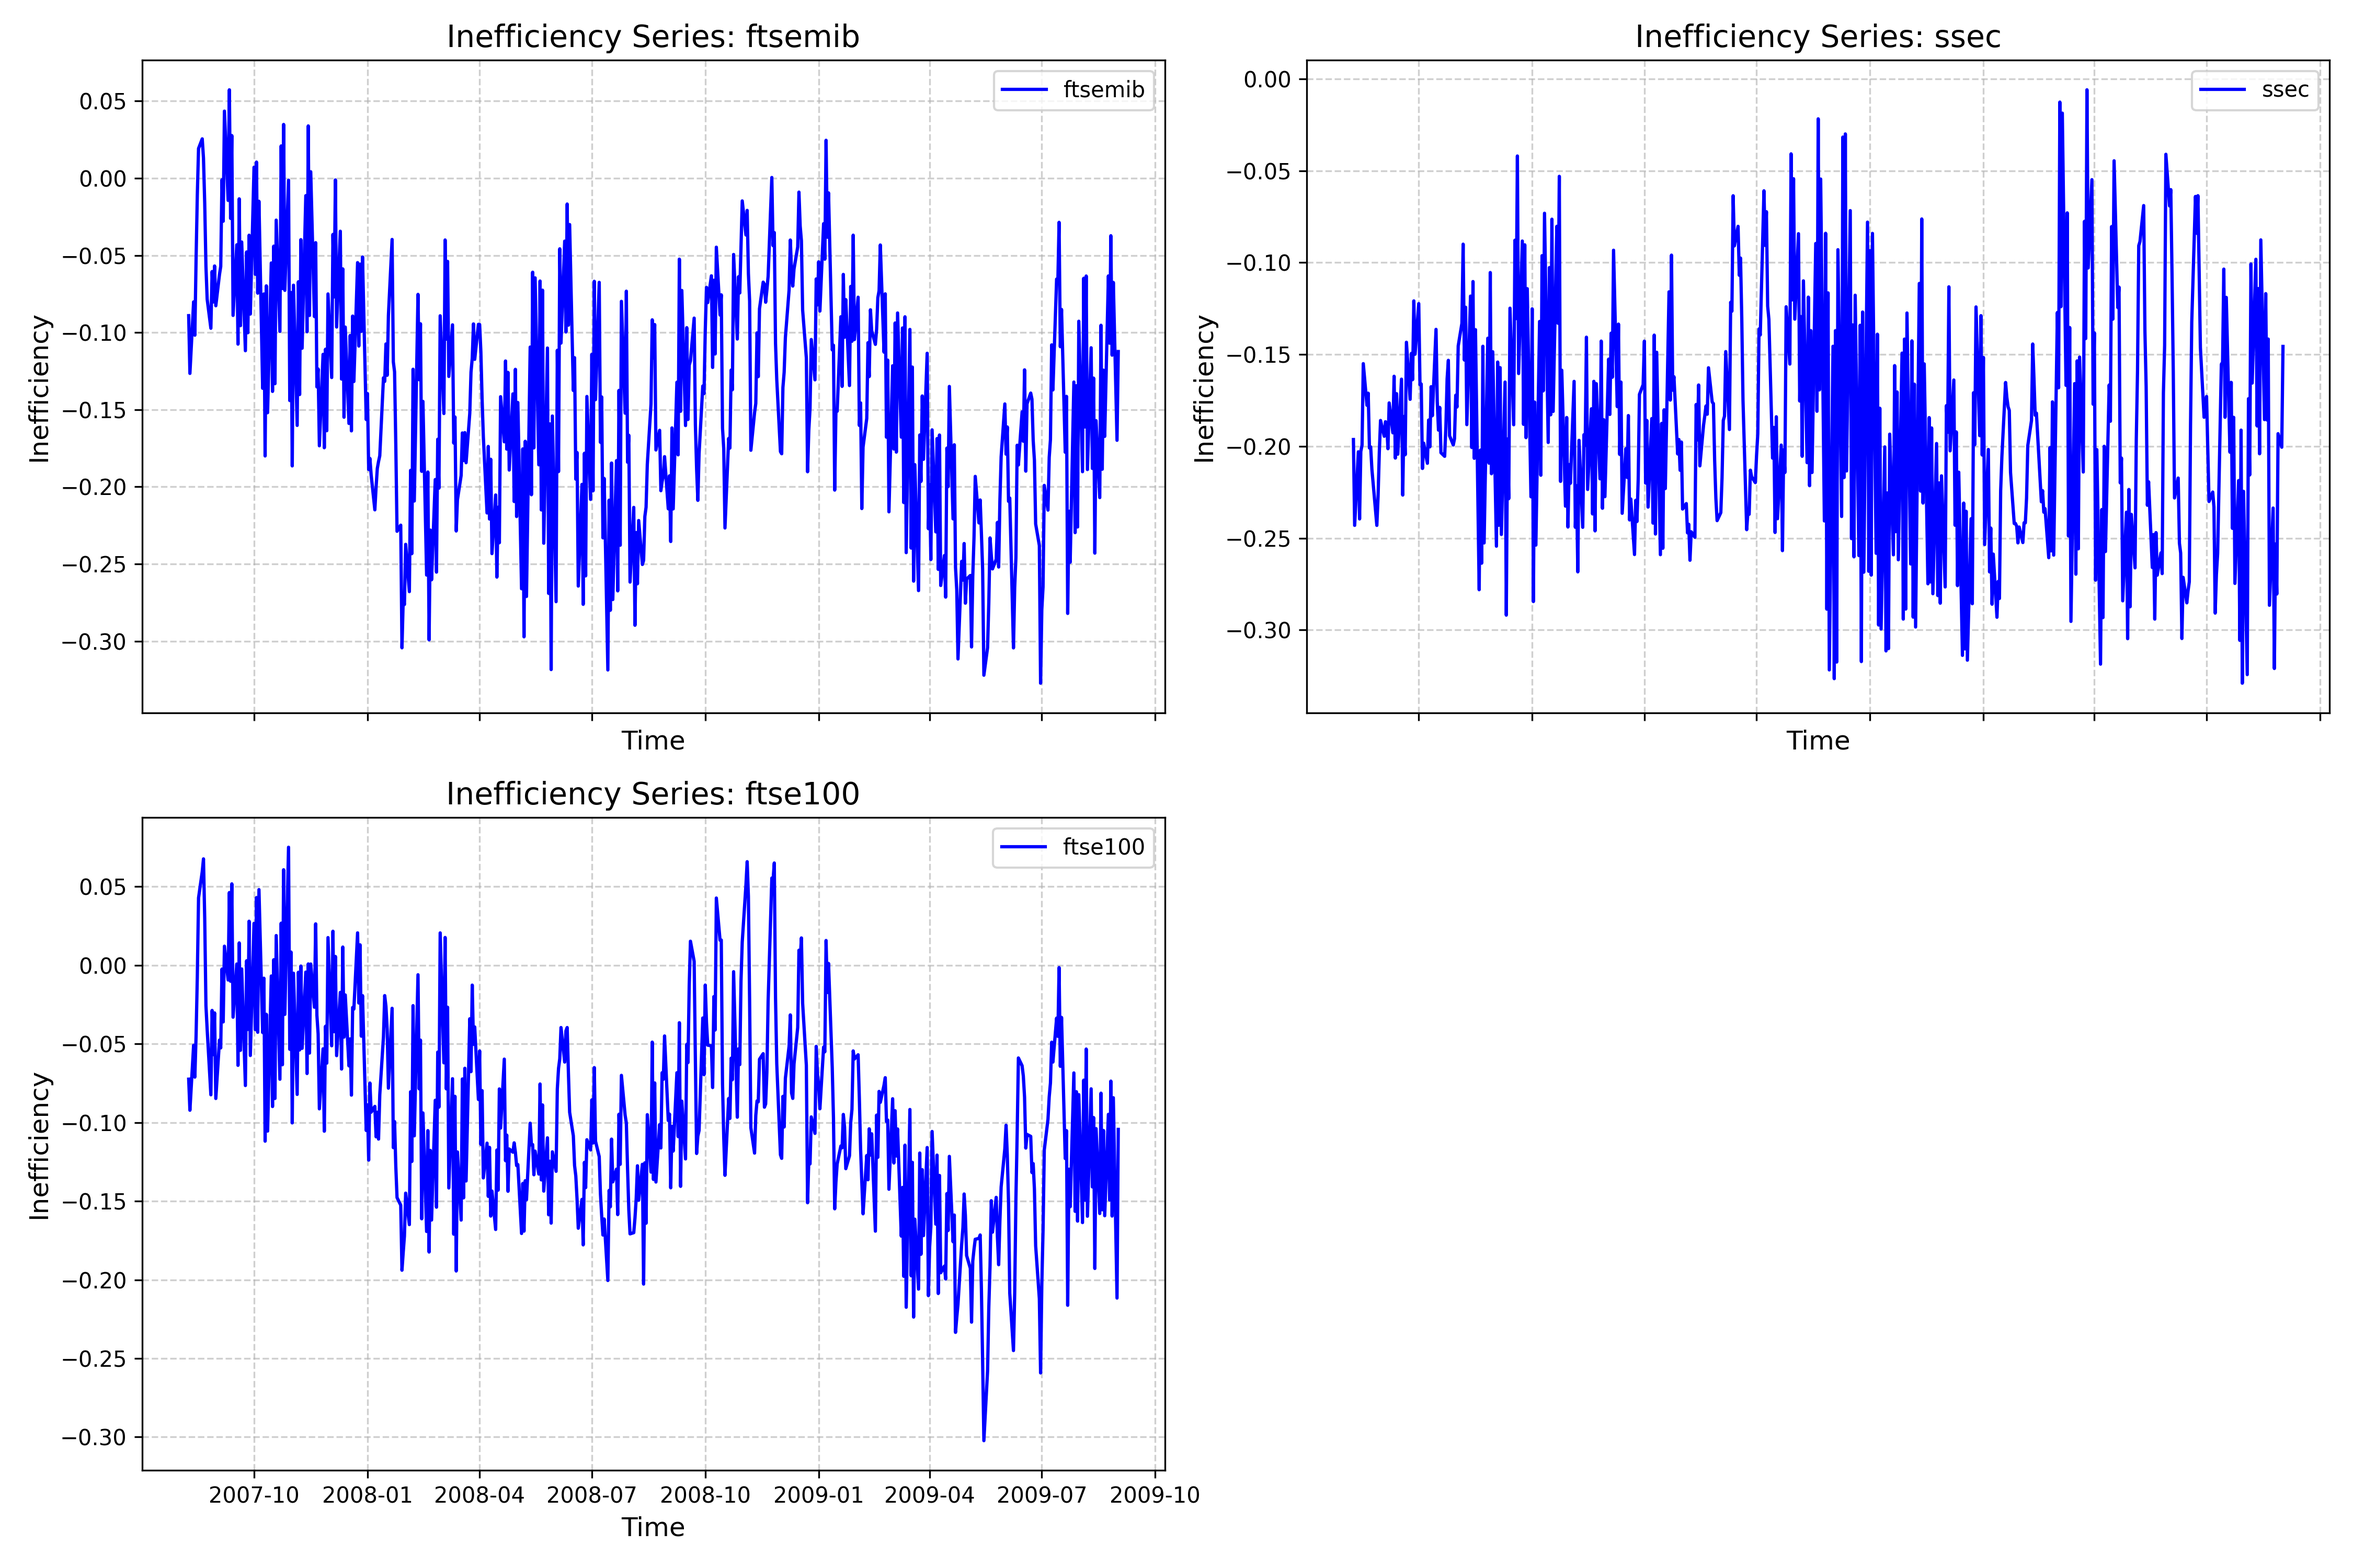
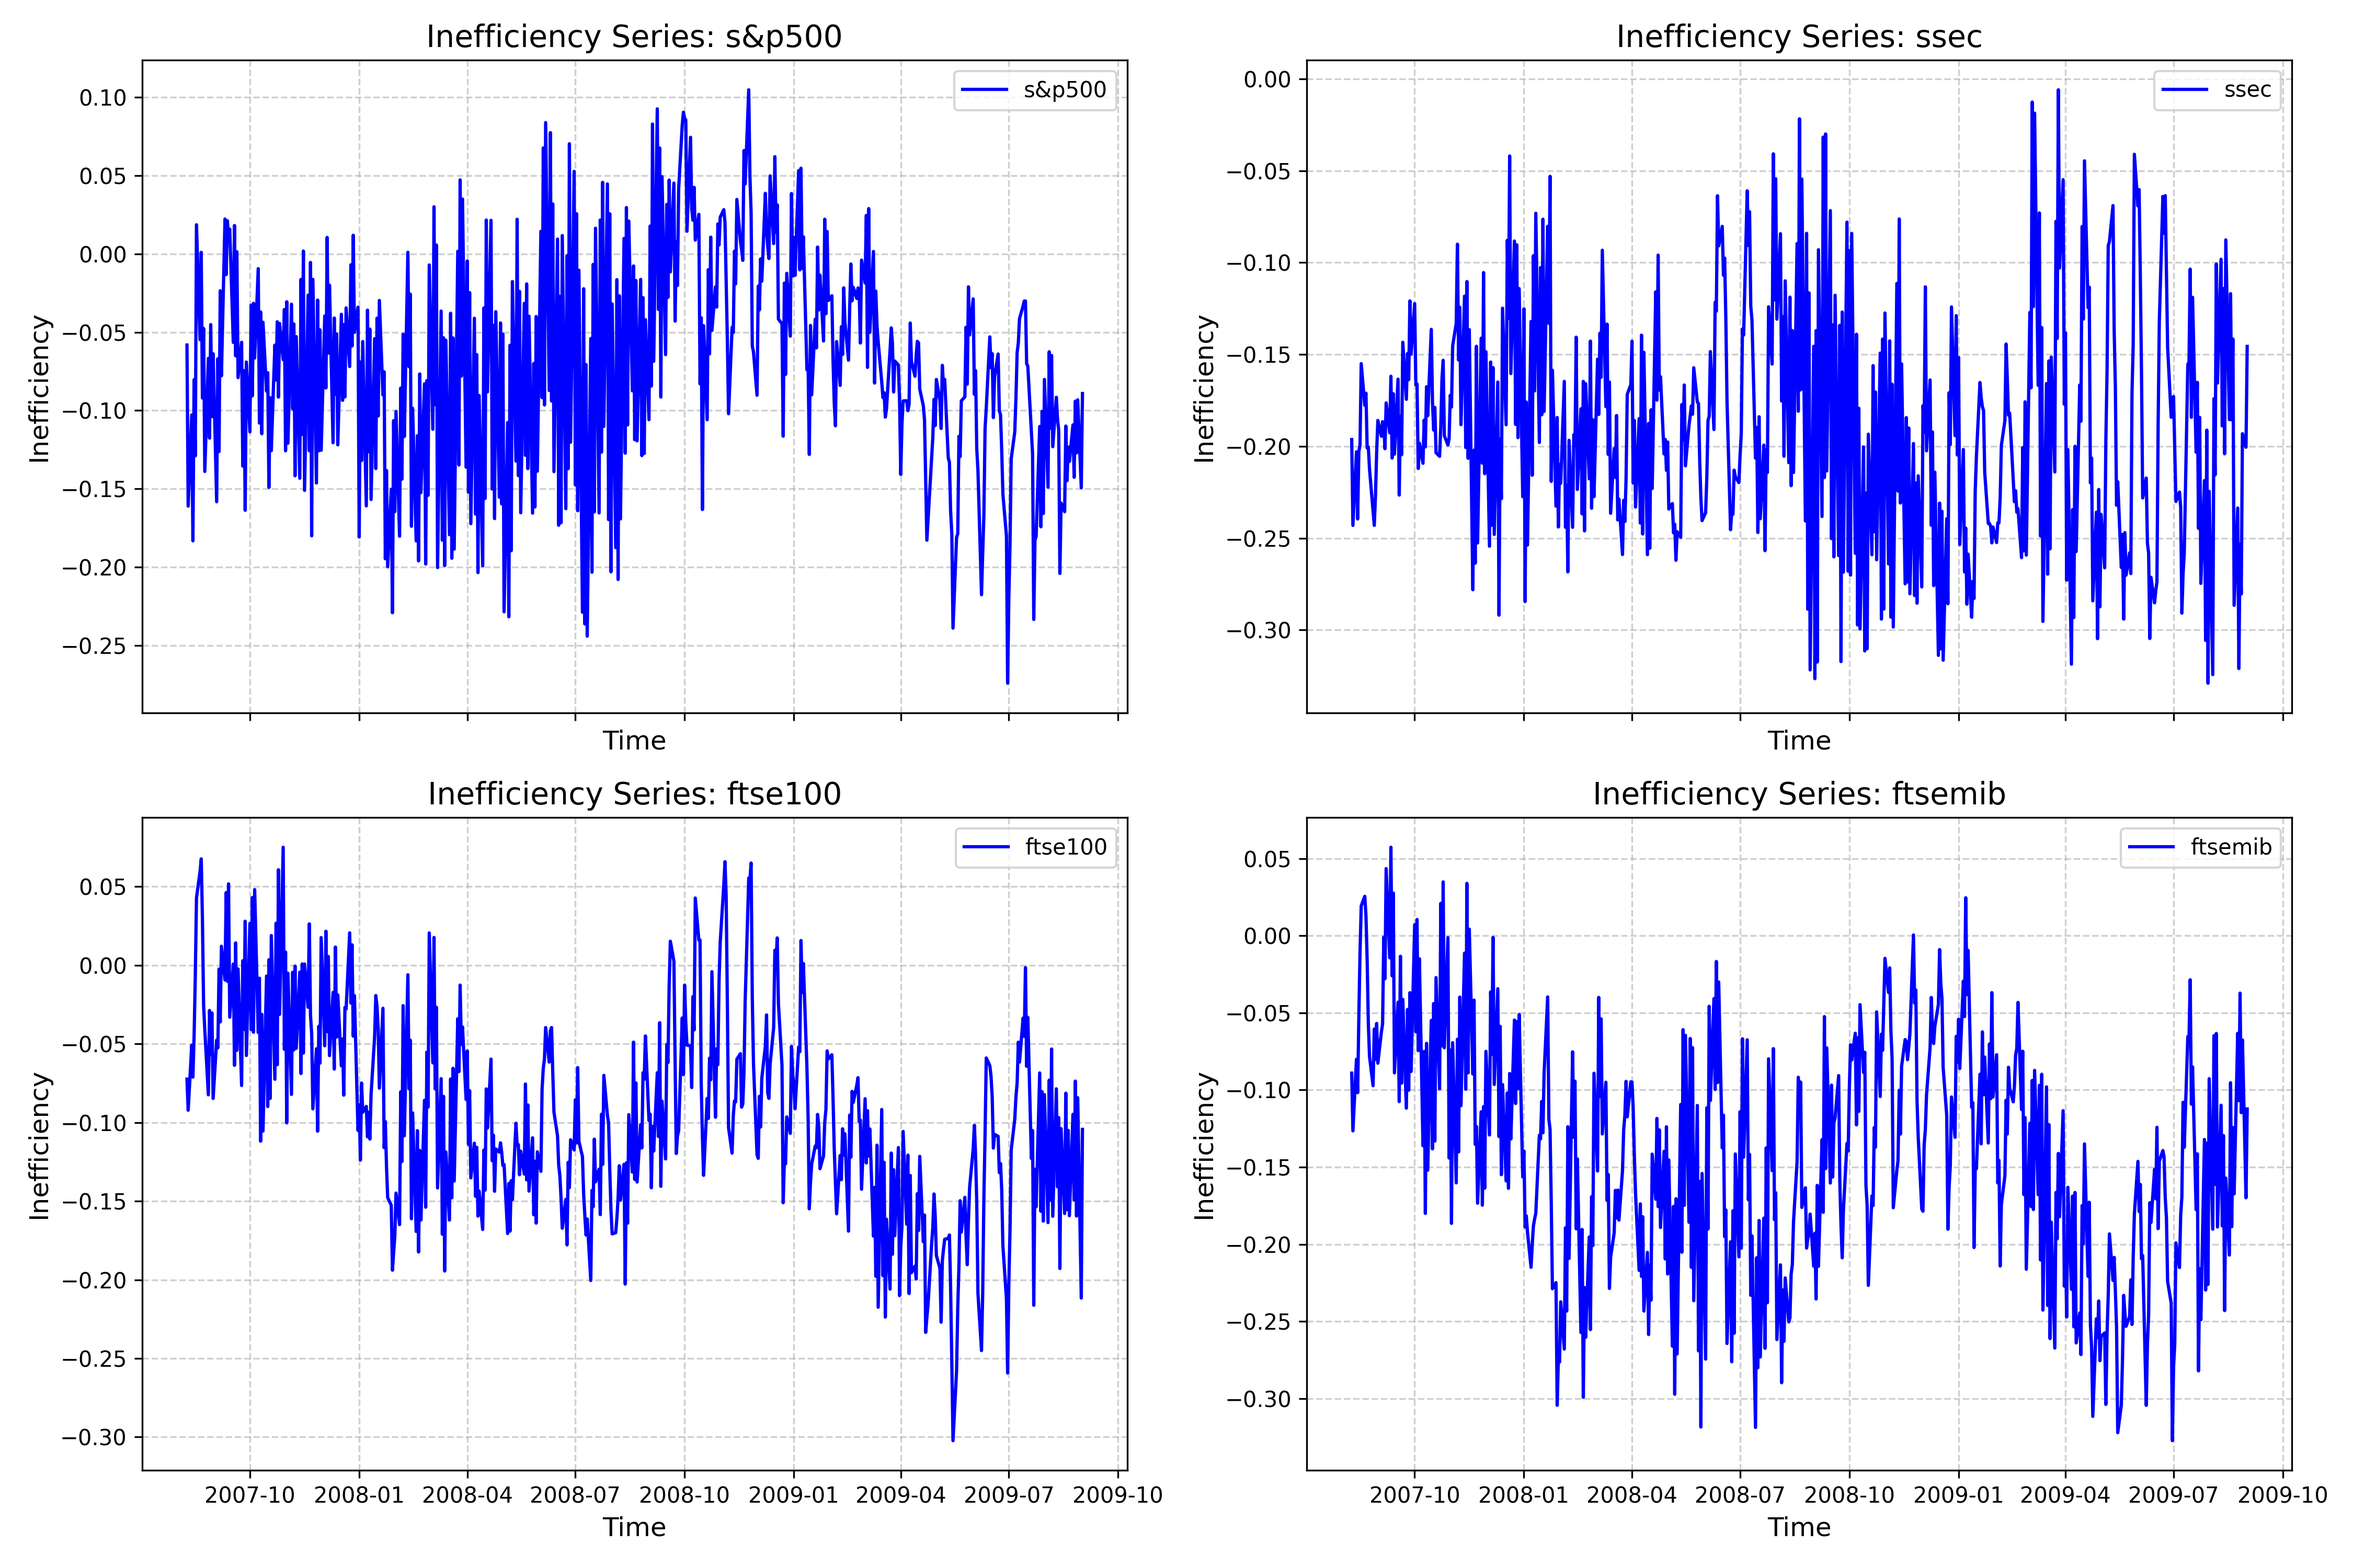
adapt results

diff --git a/src/results.py b/src/results.py
@@ -11,7 +11,7 @@ class Results:
     Save the figures and the tables in the output directory.
     """
 
-    def __init__(self, inefficiency_df: pd.DataFrame, dcc: np.ndarray, granger_tests: pd.DataFrame, plot: bool = True):
+    def __init__(self, inefficiency_df: pd.DataFrame, dcc: np.ndarray, var_results : dict[pd.DataFrame], granger_tests: dict[pd.DataFrame], plot: bool = True):
         """
         Parameters:
             inefficiency_series (pd.DataFrame): DataFrame containing the inefficiency series
@@ -20,6 +20,7 @@ class Results:
         """
         self.inefficiency_df = inefficiency_df
         self.dcc = dcc
+        self.var_results = var_results
         self.granger_tests = granger_tests
         
         self.plot = plot
@@ -87,9 +88,10 @@ class Results:
             num_rows = (num_series + 1) // 2  # Calculate the number of rows needed for two columns
             fig, axes = plt.subplots(num_rows, 2, figsize=(15, 5 * num_rows), sharex=True)
             axes = axes.flatten()  # Flatten the axes array for easier indexing
+            diff_dates = len(self.inefficiency_df.index) - len(self.dcc.index)
 
             for i, column in enumerate(self.dcc.columns):
-                axes[i].plot(self.dcc.index, self.dcc[column], label=column, color='blue')
+                axes[i].plot(self.inefficiency_df.index[diff_dates:], self.dcc[column], label=column, color='blue')
                 axes[i].set_title(f'DCC Correlation Series: {column}', fontsize=14)
                 axes[i].set_xlabel('Time', fontsize=12)
                 axes[i].set_ylabel('Correlation', fontsize=12)
@@ -106,8 +108,21 @@ class Results:
                 plt.show()
             plt.close()
 
+
+        if self.var_results == {}:
+            print("VAR results are empty. Skipping Granger causality plot.")
+        else:
+            # Saving the Granger causality test results
+            print("VAR results saving:")
+            with pd.ExcelWriter('output/var_results.xlsx', engine='xlsxwriter') as writer:
+                for sheet_name, df in self.var_results.items():
+                    df.to_excel(writer, sheet_name=sheet_name, index=False)
+
         if self.granger_tests == {}:
             print("Granger causality test results are empty. Skipping Granger causality plot.")
         else:
             # Saving the Granger causality test results
-            self.granger_tests.to_csv('output/granger_tests_results.csv', index=False)
+            print("Granger causality test results saving:")
+            with pd.ExcelWriter('output/granger_tests_results.xlsx', engine='xlsxwriter') as writer:
+                for sheet_name, df in self.granger_tests.items():
+                    df.to_excel(writer, sheet_name=sheet_name, index=False)

diff --git a/src/framework.py b/src/framework.py
@@ -31,7 +31,7 @@ class Framework:
 
         # Initialize the output series
         self.inefficiency_df = pd.DataFrame()
-        self.dcc_df = pd.DataFrame()
+        self.corr_dcc = pd.DataFrame()
         self.granger_tests = {}
 
     def _compute_inefficiency(self):
@@ -86,22 +86,23 @@ class Framework:
         # self._compute_granger_causality()
 
         df_conds_vol, df_resids = self.matlab_wrapper.estimate_garch_volatility(data_diff)
-        cov_dcc, corr_dcc = self.matlab_wrapper.compute_all_dcc(data_diff)
+        self.cov_dcc, self.corr_dcc = self.matlab_wrapper.compute_all_dcc(data_diff)
 
-        var_results, granger_results = self.matlab_wrapper.compute_all_var(data_diff)
+        self.var_results, self.granger_tests = self.matlab_wrapper.compute_all_var(data_diff)
         print("\n=== Résultats VAR ===")
-        for key, result in var_results.items():
+        for key, result in self.var_results.items():
             print(f"\n=== VAR entre {key} ===")
             print(result)
         
         print("\n=== Résultats Granger ===")
-        for key, result in granger_results.items():
+        for key, result in self.granger_tests.items():
             print(f"\n=== Granger entre {key} ===")
             print(result)
 
         res = Results(
             inefficiency_df=self.inefficiency_df,
-            dcc=corr_dcc,
+            dcc=self.corr_dcc,
+            var_results=self.var_results,
             granger_tests=self.granger_tests
         )
 

diff --git a/test.py b/test.py
@@ -10,7 +10,7 @@ from src.launcher import Launcher
 #                      "window": 1000}}
 config = {"hurst_method": HurstMethodType.SCALED_WINDOWED_VARIANCE,
           "garch_method": GarchMethodType.DCC,
-          "data": ["ftsemib", "ssec", "ftse100"],
+          "data": ["s&p500", "ssec", "ftse100", "ftsemib"],
           "dates": {"Sub-Primes": ["01-07-2007", "01-09-2009"]},
           "params": {"hurst_params": {"method": "SD", "exclusions": True},"window": 100}}
 
